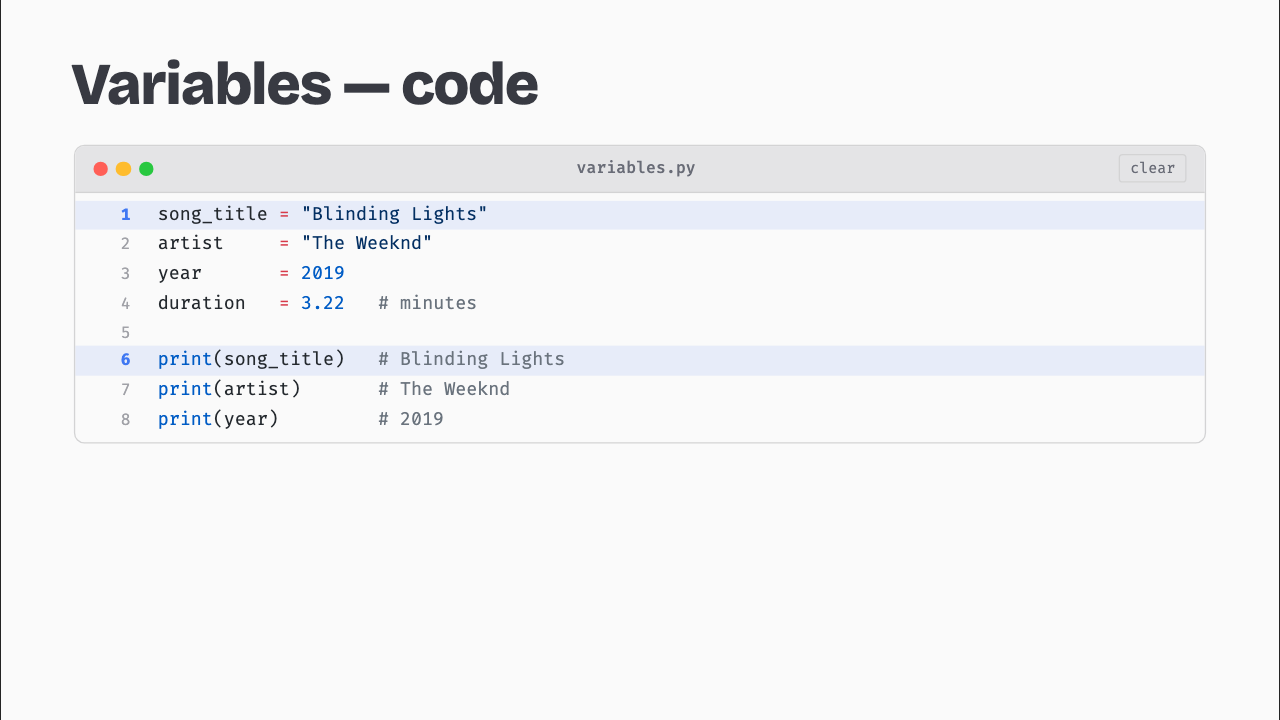
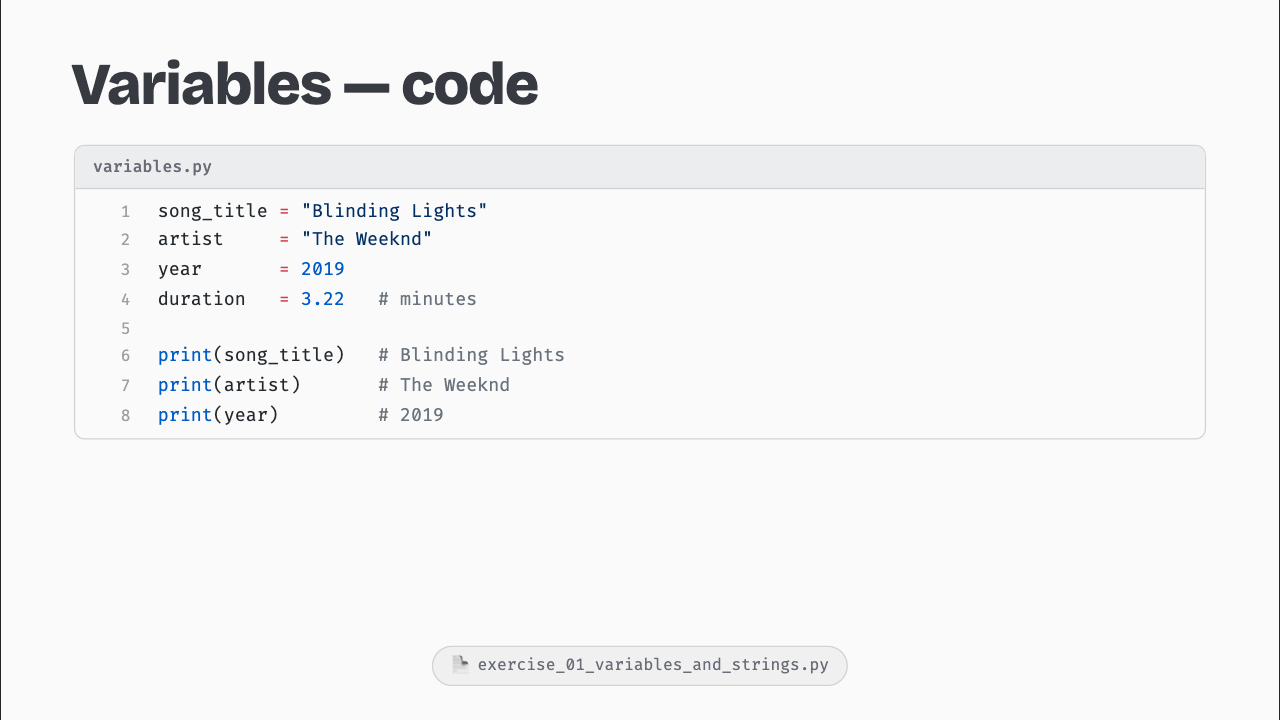
Update README preview screenshots to current slide design
Regenerated all screenshots from live dev server; replaced assets with
fresh captures showing updated code block style, task slide timer, and
concept diagram. Updated captions to match.

diff --git a/slides/README.md b/slides/README.md
@@ -73,21 +73,21 @@ Output goes to `screenshots/`. The folder is gitignored.
 
 ## Preview
 
-**Cover slide** — dark theme with live Python code panel
+**Cover slide** — dark theme with live Python code panel on the right
 
 ![Cover slide](assets/readme-cover.png)
 
-**Interactive code block** — click any line number to highlight it; non-highlighted lines dim so attention stays focused
+**Code slide** — Shiki syntax highlighting with a filename tab header and a linked exercise file badge at the bottom
 
-![Interactive code block with line highlight](assets/readme-interactive.png)
+![Code slide with syntax highlighting](assets/readme-interactive.png)
 
-**Code block with window chrome** — filename tab and macOS traffic-light buttons for a familiar editor feel; Shiki syntax highlighting
-
-![Code block with window chrome](assets/readme-codechrome.png)
-
-**Task slide with countdown timer** — a floating timer widget (play/reset, ambient music label) appears on every exercise slide so the presenter doesn't need a separate timer
+**Task slide with countdown timer** — a floating timer widget (play/reset, ambient music label) appears on every exercise slide; a file badge in the top-right links to the relevant exercise file
 
 ![Task slide with countdown timer](assets/readme-timer.png)
+
+**Concept diagram** — visual explanations use custom diagram layouts to show function inputs, outputs, and reuse
+
+![Concept diagram slide](assets/readme-codechrome.png)
 
 ## Playwright quirk on macOS
 
